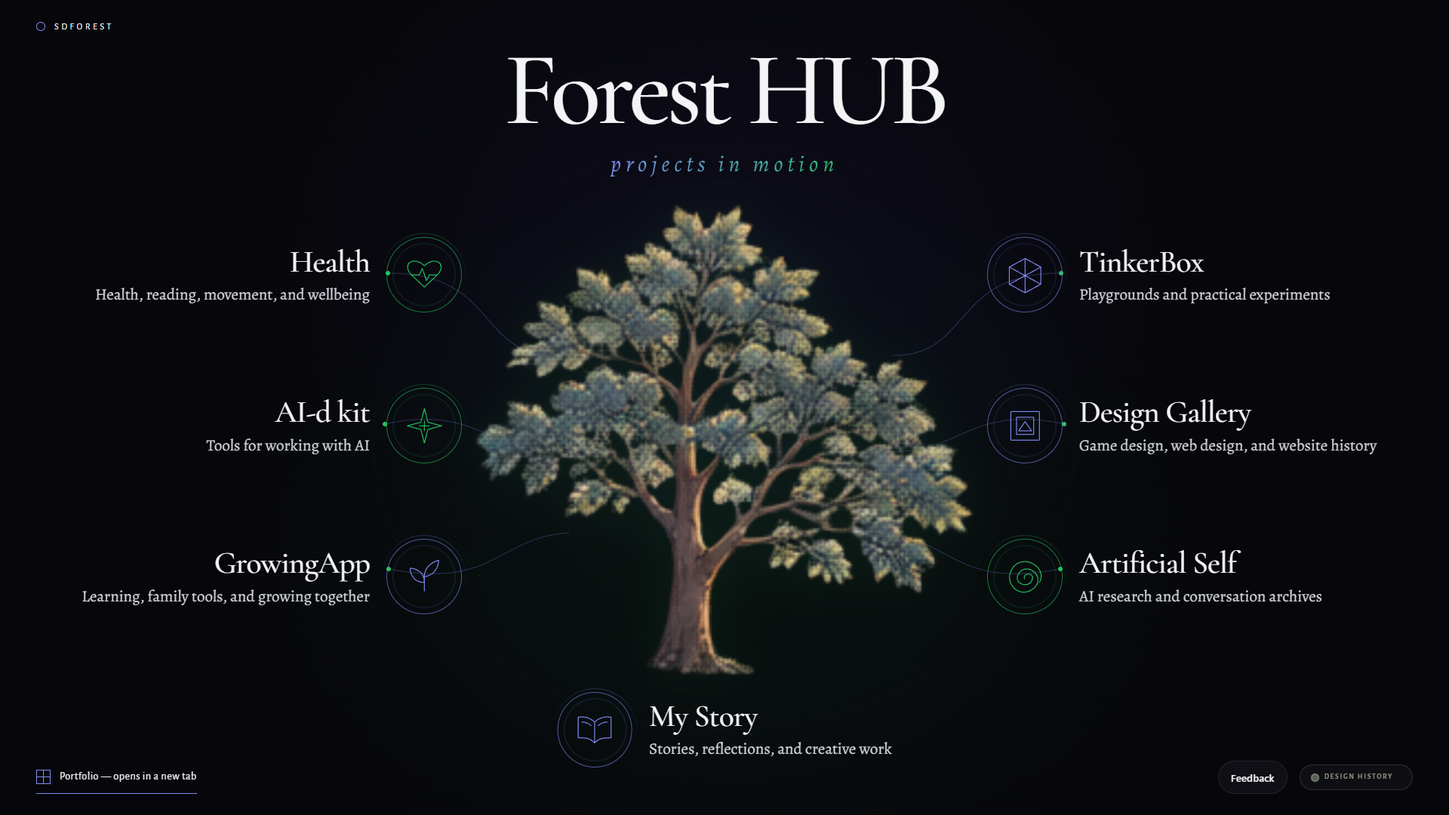
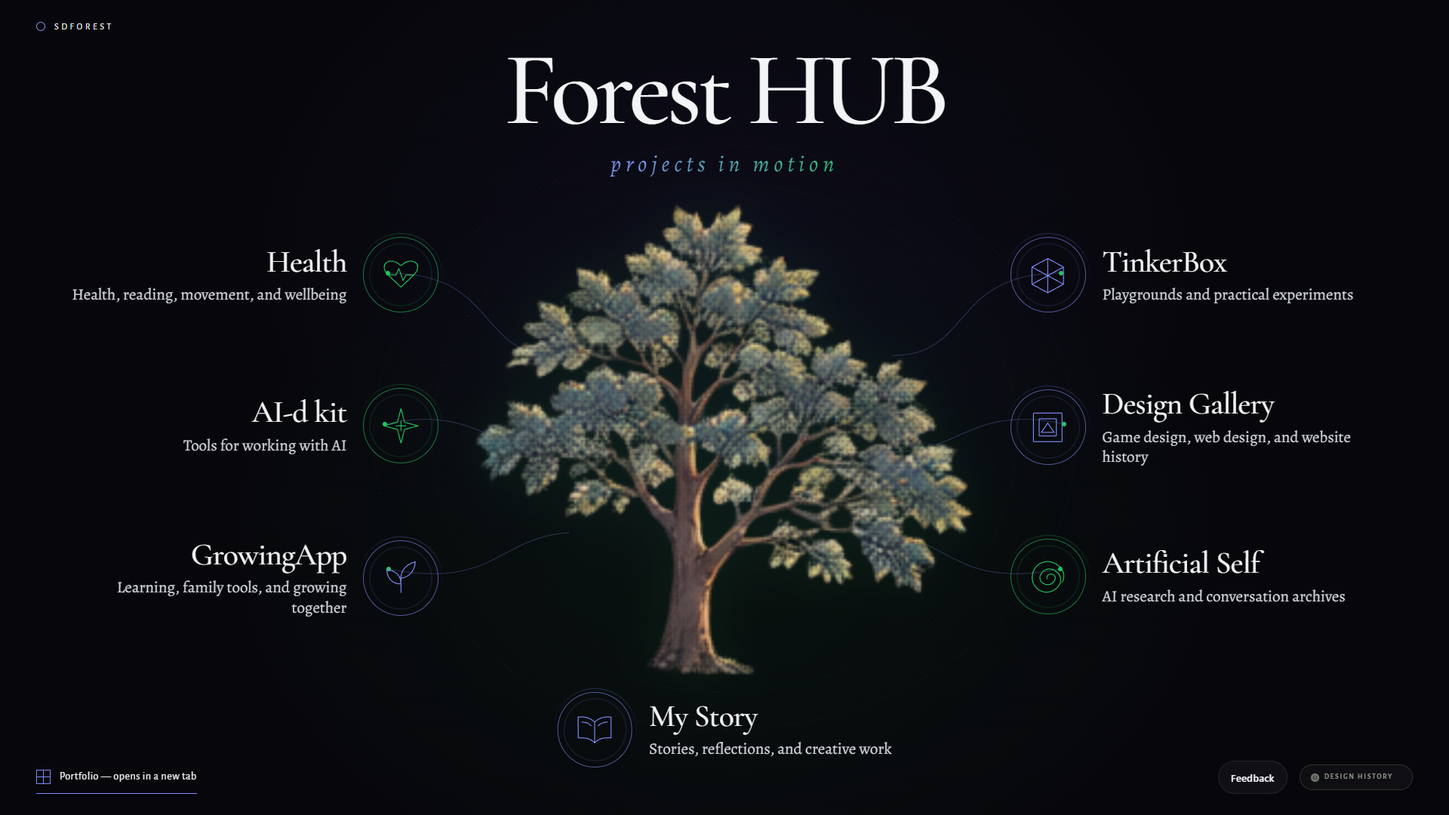
fix: keep resolve navigation reachable without moving the tree

diff --git a/scratch/tests/frontpage-resolve.test.js b/scratch/tests/frontpage-resolve.test.js
@@ -133,7 +133,7 @@ test('phone title is above the fixed tree, not over its foliage', async () => {
   await page.close();
 });
 test('short screens and portrait tablets keep the title clear of the tree', async () => {
-  for (const [width,height] of [[768,1024],[320,640],[667,375],[1920,720]]) {
+  for (const [width,height] of [[768,1024],[320,640],[667,375],[1920,720],[320,390]]) {
     const page = await pageAt('?frame=opened',{viewport:{width,height}});
     const title = await page.locator('.resolve-title').boundingBox();
     const tree = await page.locator('[data-title-crown]').boundingBox();
@@ -153,4 +153,162 @@ test('returning from a pool does not replay the terminal sequence', async () => 
   assert.equal(await opacity(page,'.resolve-world'),0);
   assert.equal(await opacity(page,'[data-pool-link="health"]'),1);
   await page.close();
+});
+test('mobile scrub track grows with wrapped and selected entries instead of clipping navigation', async () => {
+  for (const [width,height] of [[320,390],[780,390],[390,844]]) {
+    const page = await pageAt('',{viewport:{width,height}});
+    await page.addStyleTag({content:'.resolve-home .portal-name{font-size:52px!important}.resolve-home .portal-meta{font-size:30px!important}'});
+    await page.evaluate(()=>scrollTo(0,innerHeight*1.25));
+    await page.waitForFunction(()=>document.documentElement.dataset.resolveState==='opened');
+    const bounds = await page.evaluate(()=>{
+      const stage=document.querySelector('.resolve-stage').getBoundingClientRect();
+      const history=document.querySelector('.resolve-history').getBoundingClientRect();
+      return {stage:stage.height,contentBottom:history.bottom-stage.top};
+    });
+    assert.ok(bounds.contentBottom <= bounds.stage, `${width}x${height}: controls end at ${bounds.contentBottom} inside ${bounds.stage}px stage`);
+    // Page scrolling only: locator scrolling can silently scroll an overflow:hidden ancestor.
+    await page.evaluate(()=>{
+      const e=document.querySelector('.dh-tab');
+      scrollBy(0,e.getBoundingClientRect().top-innerHeight/2);
+    });
+    await page.waitForFunction(()=>{
+      const e=document.querySelector('.dh-tab'),b=e.getBoundingClientRect();
+      return b.top>=0 && b.bottom<=innerHeight;
+    });
+    assert.ok(await page.locator('.dh-tab').evaluate(e=>{
+      const b=e.getBoundingClientRect(),hit=document.elementFromPoint(b.left+b.width/2,b.top+b.height/2);
+      return hit===e || e.contains(hit);
+    }));
+    await page.locator('.dh-tab').click();
+    await page.getByRole('button',{name:'Close design history',exact:true}).click();
+    await page.locator('[data-pool-link="my-story"]').click();
+    const selected = await page.evaluate(()=>{
+      const s=document.querySelector('.resolve-stage').getBoundingClientRect(),h=document.querySelector('.resolve-history').getBoundingClientRect();
+      return h.bottom-s.top <= s.height;
+    });
+    assert.ok(selected, 'selection must not cut off the controls');
+    assert.equal(await page.locator('.resolve-stage').evaluate(e=>e.scrollTop),0,'no hidden internal scroller');
+    await page.close();
+  }
+});
+test('desktop portals during arrival and selection leave the tree artwork rectangle reserved', async () => {
+  for (const [width,height] of [[1920,1080],[1366,768],[1024,768],[820,1180]]) {
+    const page=await pageAt('?frame=opened',{viewport:{width,height}});
+    for (const time of [.9,1.3,1.8,2.5,3.2,5]) {
+      await page.evaluate(t=>window.sdforestResolve.seek(t),time);
+      const overlaps=await page.locator('[data-pool-link]').evaluateAll(es=>{
+        const t=document.querySelector('.resolve-tree').getBoundingClientRect();
+        return es.filter(e=>Number(getComputedStyle(e).opacity)>0).map(e=>{const b=e.getBoundingClientRect();return {id:e.dataset.poolLink,area:Math.max(0,Math.min(b.right,t.right)-Math.max(b.left,t.left))*Math.max(0,Math.min(b.bottom,t.bottom)-Math.max(b.top,t.top))};}).filter(x=>x.area>0);
+      });
+      assert.deepEqual(overlaps,[],`${width}x${height}, arrival t=${time}`);
+    }
+    for (const selection of [null,'health','ai-d-kit','my-story']) {
+      if(selection) await page.locator(`[data-pool-link="${selection}"]`).click();
+      const overlaps=await page.locator('[data-pool-link]').evaluateAll(es=>{
+        const t=document.querySelector('.resolve-tree').getBoundingClientRect();
+        return es.map(e=>{const b=e.getBoundingClientRect();return {id:e.dataset.poolLink,area:Math.max(0,Math.min(b.right,t.right)-Math.max(b.left,t.left))*Math.max(0,Math.min(b.bottom,t.bottom)-Math.max(b.top,t.top))};}).filter(x=>x.area>0);
+      });
+      assert.deepEqual(overlaps,[],`${width}x${height}, selected ${selection}`);
+      await page.keyboard.press('Escape');
+    }
+    await page.close();
+  }
+});
+
+test('all existing pool names fit the 320px layout and selection does not lose their text', async () => {
+  const page=await pageAt('?frame=opened',{viewport:{width:320,height:568}});
+  for (const link of await page.locator('[data-pool-link]').all()) {
+    await link.click();
+    const fits=await link.evaluate(e=>{
+      const box=e.getBoundingClientRect(),name=e.querySelector('.portal-name'),range=document.createRange();
+      range.selectNodeContents(name);
+      return [...range.getClientRects()].every(r=>r.left>=box.left && r.right<=box.right && r.top>=box.top && r.bottom<=box.bottom);
+    });
+    assert.ok(fits,await link.getAttribute('data-pool-link'));
+    assert.equal(await page.evaluate(()=>document.documentElement.scrollWidth<=innerWidth),true);
+    await page.keyboard.press('Escape');
+  }
+  await page.close();
+});
+test('mobile scroll clock uses its CSS runway rather than a separate changing viewport height', async () => {
+  const page=await pageAt('',{viewport:{width:390,height:844}});
+  // Exercise the measurement boundary with a deliberately shorter real layout track.
+  await page.addStyleTag({content:'html[data-resolve-motion="scrub"] .resolve-scroll{padding-bottom:500px}'});
+  await page.evaluate(()=>scrollTo(0,500));
+  await page.waitForFunction(()=>window.sdforestResolve.time > -1);
+  assert.equal(await page.evaluate(()=>window.sdforestResolve.time),5);
+  assert.equal(await opacity(page,'[data-pool-link="my-story"]'),1);
+  await page.evaluate(()=>scrollTo(0,250));
+  await page.waitForFunction(()=>window.sdforestResolve.time<5);
+  assert.equal(await page.evaluate(()=>window.sdforestResolve.time),2);
+  await page.close();
+});
+test('Tab reaches portals in DOM order and never focuses unrevealed controls', async () => {
+  const page=await pageAt('?frame=resolve');
+  for (const time of [0,2,4,5]) {
+    await page.evaluate(t=>window.sdforestResolve.seek(t),time);
+    const expected=await page.locator('[data-pool-link]').evaluateAll(es=>es.filter(e=>!e.inert).map(e=>e.dataset.poolLink));
+    await page.locator('.resolve-skip').focus();
+    const visited=[];
+    for(let i=0;i<24;i++) {
+      await page.keyboard.press('Tab');
+      const focused=await page.evaluate(()=>{
+        const e=document.activeElement;
+        if(e===document.body) return {body:true};
+        const chain=[];for(let p=e;p;p=p.parentElement) chain.push(p);
+        return {skip:e.matches('.resolve-skip'),pool:e.dataset.poolLink,hidden:chain.some(p=>p.inert||getComputedStyle(p).visibility==='hidden'||Number(getComputedStyle(p).opacity)===0)};
+      });
+      if(focused.skip) break;
+      if(!focused.body) assert.equal(focused.hidden,false,`hidden focus at t=${time}`);
+      if(focused.pool) visited.push(focused.pool);
+    }
+    assert.deepEqual(visited,expected);
+  }
+  await page.close();
+});
+test('rewinding while history is open cannot leave a visible focusable drawer in the resolve frame', async () => {
+  const page=await pageAt('?frame=opened');
+  await page.locator('.dh-tab').click();
+  await page.evaluate(()=>window.sdforestResolve.seek(0));
+  assert.equal(await page.getByRole('dialog',{name:'Design history',exact:true}).isVisible(),false);
+  // Chrome clears pre-existing focus after rendering display:none; wait for that observable state.
+  await page.waitForFunction(()=>!document.activeElement?.classList.contains('dh-close'));
+  await page.locator('.resolve-skip').focus();
+  await page.locator('.dh-close').evaluate(e=>e.focus());
+  assert.equal(await page.evaluate(()=>document.activeElement?.classList.contains('resolve-skip')),true);
+  await page.close();
+});
+test('reduced motion selected during a partial arrival opens every pool without animation', async () => {
+  const page=await pageAt('?frame=resolve');
+  await page.evaluate(()=>window.sdforestResolve.seek(2));
+  await page.emulateMedia({reducedMotion:'reduce'});
+  await page.waitForFunction(()=>document.documentElement.dataset.resolveState==='opened');
+  assert.equal(await opacity(page,'.resolve-world'),0);
+  assert.equal(await page.locator('[data-pool-link]').evaluateAll(es=>es.every(e=>!e.inert && Number(getComputedStyle(e).opacity)===1)),true);
+  assert.equal(await page.evaluate(()=>document.getAnimations().filter(a=>a.playState==='running').length),0);
+  await page.close();
+});
+test('pending or failed background planes cannot block the tree or opened navigation', async () => {
+  for (const failure of [false,true]) {
+    const page=await browser.newPage({viewport:{width:390,height:844}});
+    const errors=[];page.on('pageerror',e=>errors.push(e.message));
+    let release;const gate=new Promise(resolve=>release=resolve);
+    await page.route(/\/(sky|sunset|mist|landscape)\.png$/,async route=>{
+      if(failure) await route.abort();
+      else {await gate;await route.continue();}
+    });
+    await page.goto(base+'/',{waitUntil:'domcontentloaded'});
+    await page.waitForFunction(()=>window.sdforestResolve);
+    const decoded=await page.locator('.resolve-tree image').evaluate(async e=>{
+      const image=new Image();image.src=e.href.baseVal;await image.decode();return image.naturalWidth;
+    });
+    assert.equal(decoded,864);
+    await page.evaluate(()=>scrollTo(0,innerHeight*1.25));
+    await page.waitForFunction(()=>document.documentElement.dataset.resolveState==='opened');
+    assert.equal(await opacity(page,'.resolve-world'),0);
+    assert.equal(await page.locator('[data-pool-link]').evaluateAll(es=>es.every(e=>!e.inert && Number(getComputedStyle(e).opacity)===1)),true);
+    assert.deepEqual(errors,[]);
+    release();await page.unrouteAll({behavior:'wait'});
+    await page.close();
+  }
 });

diff --git a/web/shared/frontpage-resolve.css b/web/shared/frontpage-resolve.css
@@ -21,14 +21,14 @@
 .resolve-title small { display:block; margin-top:12px; font:italic 400 clamp(14px,min(1.6vw,2.8vh),30px)/1.2 var(--theme-home-body); letter-spacing:.2em; background:linear-gradient(100deg,var(--focus-ring) 20%,var(--accent-green) 85%); color:transparent; background-clip:text; }
 .resolve-directory { position:absolute; inset:0; z-index:4; pointer-events:none; }
 .resolve-directory nav { position:absolute; inset:0; }
-.resolve-home .portal { --pool-accent:var(--focus-ring); --arrival-x:0px; --arrival-y:20px; --arrival-turn:0deg; --arrival-scale:1; position:absolute; display:flex; align-items:center; gap:22px; width:29vw; min-height:124px; padding:12px 16px; border:0; border-radius:var(--radius); color:var(--theme-home-ink); background:transparent; pointer-events:auto; isolation:isolate; }
+.resolve-home .portal { --pool-accent:var(--focus-ring); --arrival-x:0px; --arrival-y:20px; --arrival-turn:0deg; --arrival-scale:1; position:absolute; display:flex; align-items:center; gap:22px; width:min(29vw,calc(46.3vw - 58vh * 226 / 214 / 2 - 32px)); min-height:124px; padding:12px 16px; border:0; border-radius:var(--radius); color:var(--theme-home-ink); background:transparent; pointer-events:auto; isolation:isolate; }
 .resolve-home .portal:nth-child(-n+3) { left:3.7vw; flex-direction:row-reverse; text-align:right; }
 .resolve-home .portal:nth-child(n+4):nth-child(-n+6) { right:3.7vw; }
 .resolve-home .portal:nth-child(1),.resolve-home .portal:nth-child(4) { top:28vh; }
 .resolve-home .portal:nth-child(2),.resolve-home .portal:nth-child(5) { top:46.5vh; }
 .resolve-home .portal:nth-child(3),.resolve-home .portal:nth-child(6) { top:65vh; }
 .resolve-home .portal:nth-child(7) { left:50%; top:83.8vh; translate:-50% 0; width:34vw; min-height:112px; justify-content:center; text-align:left; }
-.resolve-home .portal-copy { display:block; }
+.resolve-home .portal-copy { display:block; min-width:0; overflow-wrap:anywhere; }
 .resolve-home .portal-name { display:block; font:500 clamp(26px,2.15vw,42px)/1.05 var(--theme-home-display); letter-spacing:-.02em; }
 .resolve-home .portal-meta { display:block; margin-top:8px; color:var(--theme-home-soft); font:400 clamp(15px,1.1vw,21px)/1.25 var(--theme-home-body); }
 .resolve-home .portal-tag { position:absolute; width:1px; height:1px; overflow:hidden; clip-path:inset(50%); white-space:nowrap; }
@@ -63,6 +63,8 @@
 .resolve-history button[aria-label="Send feedback"] { position:static !important; box-shadow:none !important; }
 .resolve-home .dh-root:not(.is-previewing) .dh-banner { visibility:hidden; }
 .resolve-home .dh-root { visibility:var(--resolve-utilities-visibility,visible); }
+html[data-resolve-state="resolving"] .resolve-home .dh-root,
+html[data-resolve-state="dissolving"] .resolve-home .dh-root { display:none; }
 .resolve-home .dh-launch { position:static; }
 .resolve-scroll-cue { position:absolute; bottom:32px; left:50%; translate:-50%; font-size:18px; letter-spacing:.06em; display:none; text-align:center; }
 .resolve-scroll-cue span { display:block; margin-top:8px; }
@@ -81,15 +83,26 @@ html[data-resolve-motion="scrub"] .resolve-scroll-cue { display:block; opacity:v
   .resolve-home .portal { gap:12px; padding:8px; }
   .resolve-home .portal-meta { font-size:15px; }
 }
+/* When the side gutters cannot hold readable entries, keep the same tree and flow below it. */
+@media (min-width:801px) and (max-aspect-ratio:3/2) {
+  .resolve-stage { height:auto; min-height:100vh; padding-bottom:28px; overflow-x:clip; overflow-y:visible; }
+  .resolve-directory { position:relative; inset:auto; padding:calc(83vh + 24px) 3.7vw 0; }
+  .resolve-directory nav { position:relative; inset:auto; display:grid; grid-template-columns:repeat(2,minmax(0,1fr)); gap:8px 24px; }
+  .resolve-home .portal:nth-child(n) { position:relative; top:auto; left:auto; right:auto; translate:none; width:100%; min-height:100px; flex-direction:row; text-align:left; justify-content:flex-start; }
+  .resolve-home .portal:nth-child(7) { grid-column:1 / -1; }
+  .resolve-controls { position:relative; left:auto; bottom:auto; margin:24px 3.7vw 0; }
+  .resolve-history { position:relative; right:auto; bottom:auto; margin:12px 3.7vw 0; }
+  html[data-resolve-motion="scrub"] .resolve-scroll { height:auto; padding-bottom:125vh; }
+}
 @media (max-width:800px) {
-  .resolve-stage { height:auto; min-height:100vh; padding-bottom:80px; overflow:hidden; }
+  .resolve-stage { height:auto; min-height:100svh; padding-bottom:80px; overflow-x:clip; overflow-y:visible; }
   .resolve-brand { top:16px; left:20px; font-size:10px; }
-  .resolve-title { top:3.5vh; font-size:clamp(32px,min(11vw,5.5vh),76px); }
+  .resolve-title { top:3.5svh; font-size:clamp(32px,min(11vw,5.5svh),76px); }
   .resolve-title small { margin-top:5px; font-size:16px; letter-spacing:.14em; }
   .resolve-tree { top:28vh; width:min(68vw,32vh); height:calc(min(68vw,32vh) * 214 / 226); }
-  .resolve-field { height:48vh; }
+  .resolve-field { height:48svh; }
   .resolve-field svg { opacity:.4; }
-  .resolve-directory { position:relative; inset:auto; padding-top:max(46vh,calc(28vh + min(68vw,32vh) * 214 / 226 / 2 + 24px)); margin:0 20px; }
+  .resolve-directory { position:relative; inset:auto; padding-top:max(46svh,calc(28vh + min(68vw,32vh) * 214 / 226 / 2 + 24px)); margin:0 20px; }
   .resolve-directory nav { position:relative; inset:auto; display:grid; gap:3px; }
   .resolve-home .portal:nth-child(n) { position:relative; top:auto; left:auto; right:auto; translate:none; width:100%; min-height:64px; padding:8px 4px; flex-direction:row; text-align:left; gap:16px; justify-content:flex-start; border-bottom:1px solid var(--border); border-radius:0; }
   .resolve-home .portal-name { font-size:26px; }
@@ -100,14 +113,18 @@ html[data-resolve-motion="scrub"] .resolve-scroll-cue { display:block; opacity:v
   .resolve-controls { position:relative; left:auto; bottom:auto; margin:24px 24px 0; font-size:12px; }
   .resolve-history { position:relative; right:auto; bottom:auto; margin:12px 24px 0; }
   .resolve-history .dh-launch { margin:0; }
-  html[data-resolve-motion="scrub"] .resolve-scroll { height:calc(225vh + 560px); }
-  html[data-resolve-motion="scrub"] .resolve-stage { height:calc(100vh + 560px); }
-  .resolve-scroll-cue { top:80vh; bottom:auto; }
+  html[data-resolve-motion="scrub"] .resolve-scroll { height:auto; padding-bottom:125svh; }
+  html[data-resolve-motion="scrub"] .resolve-stage { height:auto; min-height:calc(100svh + 560px); }
+  .resolve-scroll-cue { top:80svh; bottom:auto; }
   .resolve-existing-copy { font-size:16px; padding:24px; }
 }
 @media (max-width:800px) and (orientation:landscape) {
   .resolve-tree { top:40vh; }
-  .resolve-directory { padding-top:max(58vh,calc(40vh + min(68vw,32vh) * 214 / 226 / 2 + 24px)); }
+  .resolve-directory { padding-top:max(58svh,calc(40vh + min(68vw,32vh) * 214 / 226 / 2 + 24px)); }
+}
+@media (max-width:800px) and (max-height:480px) and (orientation:portrait) {
+  .resolve-title { top:0; font-size:26px; }
+  .resolve-title small { margin-top:0; font-size:14px; }
 }
 html:not([data-resolve-motion]) .resolve-home *, html:not([data-resolve-motion]) .resolve-home *::before, html:not([data-resolve-motion]) .resolve-home *::after { animation:none !important; }
 @media (prefers-reduced-motion:reduce) {

diff --git a/docs/frontpage-resolve.md b/docs/frontpage-resolve.md
@@ -17,6 +17,10 @@ At time **0**, only the tree is visible on `#07070b`. At **4.4 seconds**, the pa
 
 For a landscape phone <=800 px wide, the centre is **50vw, 40vh**, with the same width cap. This keeps the title above the tree on short screens. These are CSS viewport units, not device pixels; measure the composition against the actual viewport, not the encoded video's surrounding letterbox. The tree is contained, never stretched or cover-cropped. On desktop, reserve the central 61.2523vh-wide × 58vh-high rectangle; pool entries occupy the flanks and the space below the roots.
 
+The artwork-box `vh` values above are deliberately unchanged. Mobile **layout**, not artwork, uses `svh`: the stage minimum, scroll runway, title, field, cue and directory's baseline offset. The directory also retains a `vh`-based clearance calculation against the protected artwork. A toolbar change must not replace those artwork numbers with a different video contract.
+
+Side entries leave a 32px gutter outside that rectangle before their selection/arrival transforms. On desktop widths >800px with aspect ratio <=3:2, the side gutters are too narrow for readable entries: the same DOM flows into two columns **below** the unchanged tree (top = 83vh + 24px). Mobile uses one column below it. No new ordering source is introduced.
+
 ### Asset boundary
 
 `[data-title-crown]` is the artwork-box anchor. Its current SVG `viewBox="93 158 226 214"` frames the meaningful alpha bounds of the unchanged 864×480 original layer. Do **not** align to the full mostly-transparent source canvas. An eventual higher-resolution render must preserve the artwork box, using its own corresponding tight alpha viewBox.
@@ -46,9 +50,11 @@ The following named sequence reflects the unchanged catalog ranks after #615: He
 | Portfolio control | 3.65 → 4.20 | Fade in at the lower-left edge. Existing external-tab warning and destination retained. |
 | Design history + Feedback controls | 3.85 → 4.40 | Fade in together at the lower-right edge; existing behaviours retained. |
 
+The slot positions above describe wide desktop. The compact-desktop and mobile flow layouts preserve the same DOM order and timing, not those flank coordinates.
+
 The early **Explore the pools** cue fades out with the background (−1→0); activating it opens the complete page immediately. A keyboard skip link is available on focus at every stage. Existing homepage paragraphs are retained verbatim after the stage and enter through normal document scrolling, not the video sequence. There are no other arriving layers, hidden project lists or invented destinations.
 
-Once entered, all pool frames have restrained 5-second breathing and 18-second orbit loops. Hover/focus intensifies the ring; the internal per-pool mark sways, pulses or rotates. Reduced motion disables **all** such loops. The seven entry hit areas remain stable; selection enlarges one by just 2.5% and reveals its explicit **Enter** button.
+Once entered, all pool frames have restrained 5-second breathing and 18-second orbit loops. Hover/focus intensifies the ring; hover additionally makes the internal per-pool mark sway, pulse or rotate. Reduced motion disables **all** such loops. Selection scales an entry by 2.5% and increases bottom padding to 38px (46px on mobile) for its explicit **Enter** button. Flow rows therefore grow on selection; their height is not fixed and the containing stage must grow with them.
 
 ## Working page / animation connection
 
@@ -57,7 +63,9 @@ Serve the repository root with an ordinary static server, then open:
 - `/?frame=resolve` — held time 0, tree only.
 - `/?frame=opened` — held time 5, complete interface.
 - `/?frame=hinge` — held time −0.5, half-dissolved world.
-- `/` — terminal sequence scrubbed by the first 125vh of scroll: `t = −1 + 6 × scrollY / (1.25 × viewportHeight)`, clamped to [−1,5]. The mobile stage leaves continuation space for every entry.
+- `/` — terminal sequence scrubbed over a 125vh desktop / 125svh mobile runway: `t = −1 + 6 × scrollY / runway`, clamped to [−1,5]. Flow layouts put that runway in `.resolve-scroll` bottom padding, which the existing scroll sampler measures. Wide desktop retains the 1.25 × viewport-height fallback. There is still one clock and the same reversible `seek()` mathematics.
+
+Mobile `.resolve-stage` is content-height with `overflow-x:clip; overflow-y:visible`. In scrub mode `min-height:calc(100svh + 560px)` is a **floor, not a ceiling**; `.resolve-scroll` is height:auto with 125svh bottom padding. Wrapped descriptions, enlarged text, selection and utility rows cannot be cut off by a fixed 560px continuation allowance.
 
 These are query views of the **same existing homepage**, not new routes. `window.sdforestResolve.seek(seconds)` is the handoff for an external scroll/video clock. `window.sdforestResolve.open()` supplies the complete static state and disables the local scroll sampler. An integrated video driver should call `open()` once to release that sampler, then `seek(t)` using the shared clock. It must honour reduced motion rather than reintroducing animation. This slice does **not** contain, replace, or claim to finish Ivan's six-stage animation.
 
@@ -73,13 +81,13 @@ Browser plugin DOM inspection was available, but its screenshot call failed. Scr
 | Opened | [Screenshot](frontpage-proof/opened-desktop.png) | [Screenshot](frontpage-proof/opened-mobile.png) · [full continuation](frontpage-proof/opened-mobile-full.png) |
 | Hinge | [Screenshot](frontpage-proof/hinge-desktop.png) | [Screenshot](frontpage-proof/hinge-mobile.png) |
 
-The opened desktop shows **7/7 full pool entries**; mobile shows **6/7 full rows plus the start of My Story**, and scrolling reaches the complete seventh row and controls. No horizontal overflow was observed. Measured desktop tree box: x=629.242, y=269.992, w=661.516, h=626.391. Mobile: x=62.406, y=110.758, w=265.188, h=251.109. Subpixel differences from the ideal numbers above are browser rounding. The before/opened tree boxes compare exactly equal within each viewport.
+The opened 1920×1080 desktop shows **7/7 full pool entries**; 390×844 mobile shows **6/7 full rows plus the start of My Story**, and scrolling reaches the complete seventh row and controls. Compact desktop 1024×768 now shows **2/7 full entries**, with the rest below the tree and reachable by scrolling; fitting all seven there previously overlapped the reserved rectangle. No horizontal overflow was observed. Measured desktop tree box: x=629.242, y=269.992, w=661.516, h=626.391. Mobile: x=62.406, y=110.758, w=265.188, h=251.109. Subpixel differences from the ideal numbers above are browser rounding. The before/opened tree boxes compare exactly equal within each viewport.
 
 ### Fidelity ledger
 
 | Comparison | Study / brief | Rendered result or deliberate constraint |
 |---|---|---|
-| Composition | Centred large tree, open flanking entries | Exact numbered contract takes precedence over the study's slightly higher tree. All seven entries fit on desktop. |
+| Composition | Centred large tree, open flanking entries | Exact numbered contract takes precedence over the study's slightly higher tree. All seven entries fit at 1920×1080; compact desktop flows below the tree. |
 | Type | Large serif wordmark; quiet UI | Existing self-hosted Cormorant Garamond, Alegreya and Alegreya Sans reused. Desktop title 138px, phone 42.9px. |
 | Palette | Dark electric page, warm illustrated departure | Computed background rgb(7,7,11); existing indigo/green tokens. All warm planes disappear at time 0. |
 | Source art | Keep the existing tree and intricacy | Original layers preserved. Desktop source-resolution softness is explicit; generated study tree is **not** shipped as UI art. |
@@ -91,10 +99,61 @@ The opened desktop shows **7/7 full pool entries**; mobile shows **6/7 full rows
 
 The structure, typography, palette and interactions were faithfully verified against the accepted brief. The original asset's resolution ceiling is a remaining material visual limitation, not a hidden claim of final-quality video art. The [layout study](frontpage-proof/layout-study.png) is documentation only.
 
+## Independent-review reconciliation — 2026-09-23
+
+PR #619 remains the delivery branch. These findings were reproduced against its earlier head `7d29593`, not attributed to the deployed homepage merely because a screenshot looked similar.
+
+### Navigation, framing and fallbacks
+
+| Check | Measured result |
+|---|---|
+| Mobile clipping | At 320×390 with existing names/descriptions enlarged to 200%, the earlier stylesheet fixed the stage at **950px** while history ended at **1678.125px**. Page scrolling could not reach/hit its control. Now the stage grows to **1850.219px**, history ends at **1770.219px**, and the control is visibly hit-testable. Different wrapping after the flex-item fix accounts for the changed content height. The comparison serves the actual earlier stylesheet, not an approximation. |
+| Wrapped/selected navigation | Browser regression covers 320×390, 780×390 and 390×844, enlarged text, selecting My Story, reaching and opening history with ordinary page scrolling, and stage scrollTop = **0**. No hidden internal scrolling is used to manufacture success. |
+| Tree contract | All three `.resolve-tree` CSS rules and the entire `seek()` body compare unchanged against `7d29593`. Tree runtime writes remain filter-only. No timing list, timer or second clock added. |
+| Reserved rectangle | Before: selected Health overlapped by **851.705px²** at 1920×1080; each of the six flank entries overlapped by **7195.875px²** at 1024×768. After: **0px²** for every portal at 1920×1080, 1366×768, 1024×768 and 820×1180, sampled at arrival times 0.9, 1.3, 1.8, 2.5, 3.2 and 5, plus Health/AI-d kit/My Story selection. |
+| Narrow names | At the minimum tested width **320px**, all **7/7** existing pool names fit on one line; descriptions wrap without clipping or horizontal overflow. Each selected name also stays inside its entry. [Full rendered continuation](frontpage-proof/review-narrow-full.png). |
+| Focus | Tab traverses **Health → AI-d kit → GrowingApp → TinkerBox → Design Gallery → Artificial Self → My Story**, matching DOM order. At t=0 none of the portals is focusable; at t=2 only the first two are; at t=4 and t=5 all seven are. Partly revealed entries remain inert. The skip link reveals itself on focus. |
+| History after reverse scrub | An already-open drawer formerly overrode inherited visibility. Homepage-only `html[data-resolve-state="resolving"] .resolve-home .dh-root` and its `dissolving` counterpart now use display:none. Chrome clears existing drawer focus after rendering; a subsequent programmatic focus attempt cannot enter the hidden drawer. No application timer was added. |
+| Reduced motion | Both initial preference and enabling it at t=2 produce the fully opened state: **7/7** usable portals, world opacity **0**, **0** running animations. No-JS and incoming-fragment cases remain usable. |
+| Slow/failed backgrounds | Requests for sky/sunset/mist/landscape were held pending, then separately aborted. In both cases the tree decoded at **864px** source width, the actual scroll reached opened, **7/7** portals became usable, world opacity became **0**, and there were **0** uncaught runtime errors. Background failures do not gate the tree/module. [Failed-background render](frontpage-proof/review-failed-backgrounds.png). |
+
+The `svh` checks use actual Chrome at mobile viewport sizes and a separate measured CSS-runway regression (500px forward gives t=5; reversing to 250px gives t=2). Physical iOS/Android collapsing toolbars were **not** exercised on hardware; that remains an explicitly unverified platform behavior, not a claim of device testing.
+
+### Deployed defects versus this PR
+
+The live homepage was fetched successfully and visually inspected on 2026-09-23 ([live capture](frontpage-proof/review-live-desktop.png)). It has both the seven-pool directory and an additional stale legacy rail; the four legacy items are not the entirety of its navigation.
+
+| Reported defect | PR evidence / disposition |
+|---|---|
+| a. Letterspaced eyebrow inside foliage | Resolved: `.landing-kicker` does not exist in the new homepage. `.resolve-title` sits above the tree; desktop and short-phone title clearance is tested. |
+| b. Hard purple closed crown | Resolved: `.title-crown-canopy` does not exist. `.resolve-tree image` is the unchanged original transparent tree layer with a soft filter glow, not a stroked canopy outline. |
+| c. Trunk amputated by body copy | Resolved: the full original tree, including its base, is visible; `.resolve-existing-copy` begins after the stage, below the tree. No paragraph overlays the trunk. |
+| d. Isolated saturated green CTA | Resolved: `.resolve-scroll-cue` is neutral text without a filled green pill. Existing green is distributed across three pool motifs, connection nodes, the restrained tree glow and the Enter outline; indigo is retained. The palette was not silently changed to violet-only. |
+| e. Four legacy items / retired hub presented beside seven-pool promise | Navigation resolved: `[data-pool-directory]` has all seven canonical links and the old `[data-forest-nav-root]` is absent; no retired-kids-hub link is mounted. **Residual copy issue:** the preserved paragraph still says “one of seven live pools below”, although it now follows the directory. Its directional word is stale. The explicit do-not-edit-narrative/copy constraint prevented rewriting the retained paragraph; this is not claimed fixed. |
+
+### Code versus contract: explicit corrections
+
+| Earlier contract text | Conflicting code / observed behavior | Reconciliation |
+|---|---|---|
+| “The mobile stage leaves continuation space for every entry.” | `.resolve-stage { height:calc(100vh + 560px); }` with inherited `overflow:hidden` cut off variable-height content. | Content defines stage height; the minimum and separate scroll runway are documented above. |
+| “The seven entry hit areas remain stable” | `.portal.is-selected { scale:1.025; padding-bottom:38px; }`, with mobile padding-bottom:46px, changes row height. | Contract now describes selection growth, not fixed hit areas. |
+| “At 1024×768 all seven entries also fit.” | `.portal { width:29vw; }` put all six flank boxes across the tree's reserved rectangle. | Compact-desktop entries flow below the tree; **2/7** fit above the fold. Artwork remains unchanged. |
+| “At time 0, only the tree is visible” | Shared `.dh-root.is-open .dh-drawer { visibility:visible; }` could keep an open drawer visible after rewind. | Homepage resolving/dissolving states hide the whole history host; regression includes a previously open drawer. |
+| “Hover/focus intensifies the ring; the internal per-pool mark sways, pulses or rotates.” | Ring selectors include `:focus-visible`; internal `svg` animation selectors use only `:hover`. | Wording now distinguishes ring focus feedback from hover-only interior animation. |
+
+### Review screenshots
+
+| Before / after or edge case | Rendered evidence |
+|---|---|
+| Enlarged-text navigation, 320×390 | [Earlier stylesheet: unreachable controls](frontpage-proof/review-before-controls.png) · [Fixed: reachable controls](frontpage-proof/review-after-controls.png) |
+| Selection without tree overlap, 1920×1080 | [Health selected](frontpage-proof/review-desktop-selected.png) |
+| Compact desktop, 1024×768 | [Two rows in view; continuation below](frontpage-proof/review-opened-1024x768.png) |
+| Landscape phone, 780×390 | [Opened](frontpage-proof/review-opened-780x390.png) |
+
 ## Verification and scope
 
-- New separate browser lane: **11/11**. Initially 7/7 failed for the missing stage; later collision checks also failed before their fixes. Includes precise geometry, reversible dissolve, real scroll, keyboard skip, two-step navigation, no-JS/reduced-motion, phone access, fragment arrival, asset errors, utilities, short-screen title clearance and returning from a pool without replay.
-- Additional actual-use checks: history opens/closes; keyboard Enter selects and focuses explicit Enter; Escape returns focus. At 1024×768 all seven entries also fit.
+- Separate browser lane before review: **11/11**; after review: **19/19**. The earlier checks missed variable-height clipping and selected-box overlap; new regressions cover those, CSS-measured runway, narrow names, focus order, open-history rewind, mid-sequence reduced motion and pending/failed backgrounds. No test was removed or skipped.
+- Additional actual-use checks: history opens/closes; keyboard Enter selects and focuses explicit Enter; Escape returns focus. At 1024×768 two entries fit without violating the reserved artwork rectangle; all seven remain reachable.
 - `npm test`: baseline **188/189**; after rebasing merged #615 **191/192**. The additional three are #615's tests, not suppressed failures. Sole failure remains `scratch/tests/ai-kit-offers.test.js:38`, expected `c7d630…`, Windows checkout `008ceb…`. Known CRLF source-integrity artifact left unchanged.
 - Because that failure short-circuits the runner, the built-page suite was run separately: `node --test scratch/tests/sdforest-foundation.test.js` **6/6**.
 - Browser command: `node --test scratch/tests/frontpage-resolve.test.js`, with Playwright resolvable and optional `CHROME_PATH` pointing to installed Chrome. Existing validation and its runner were not edited.
